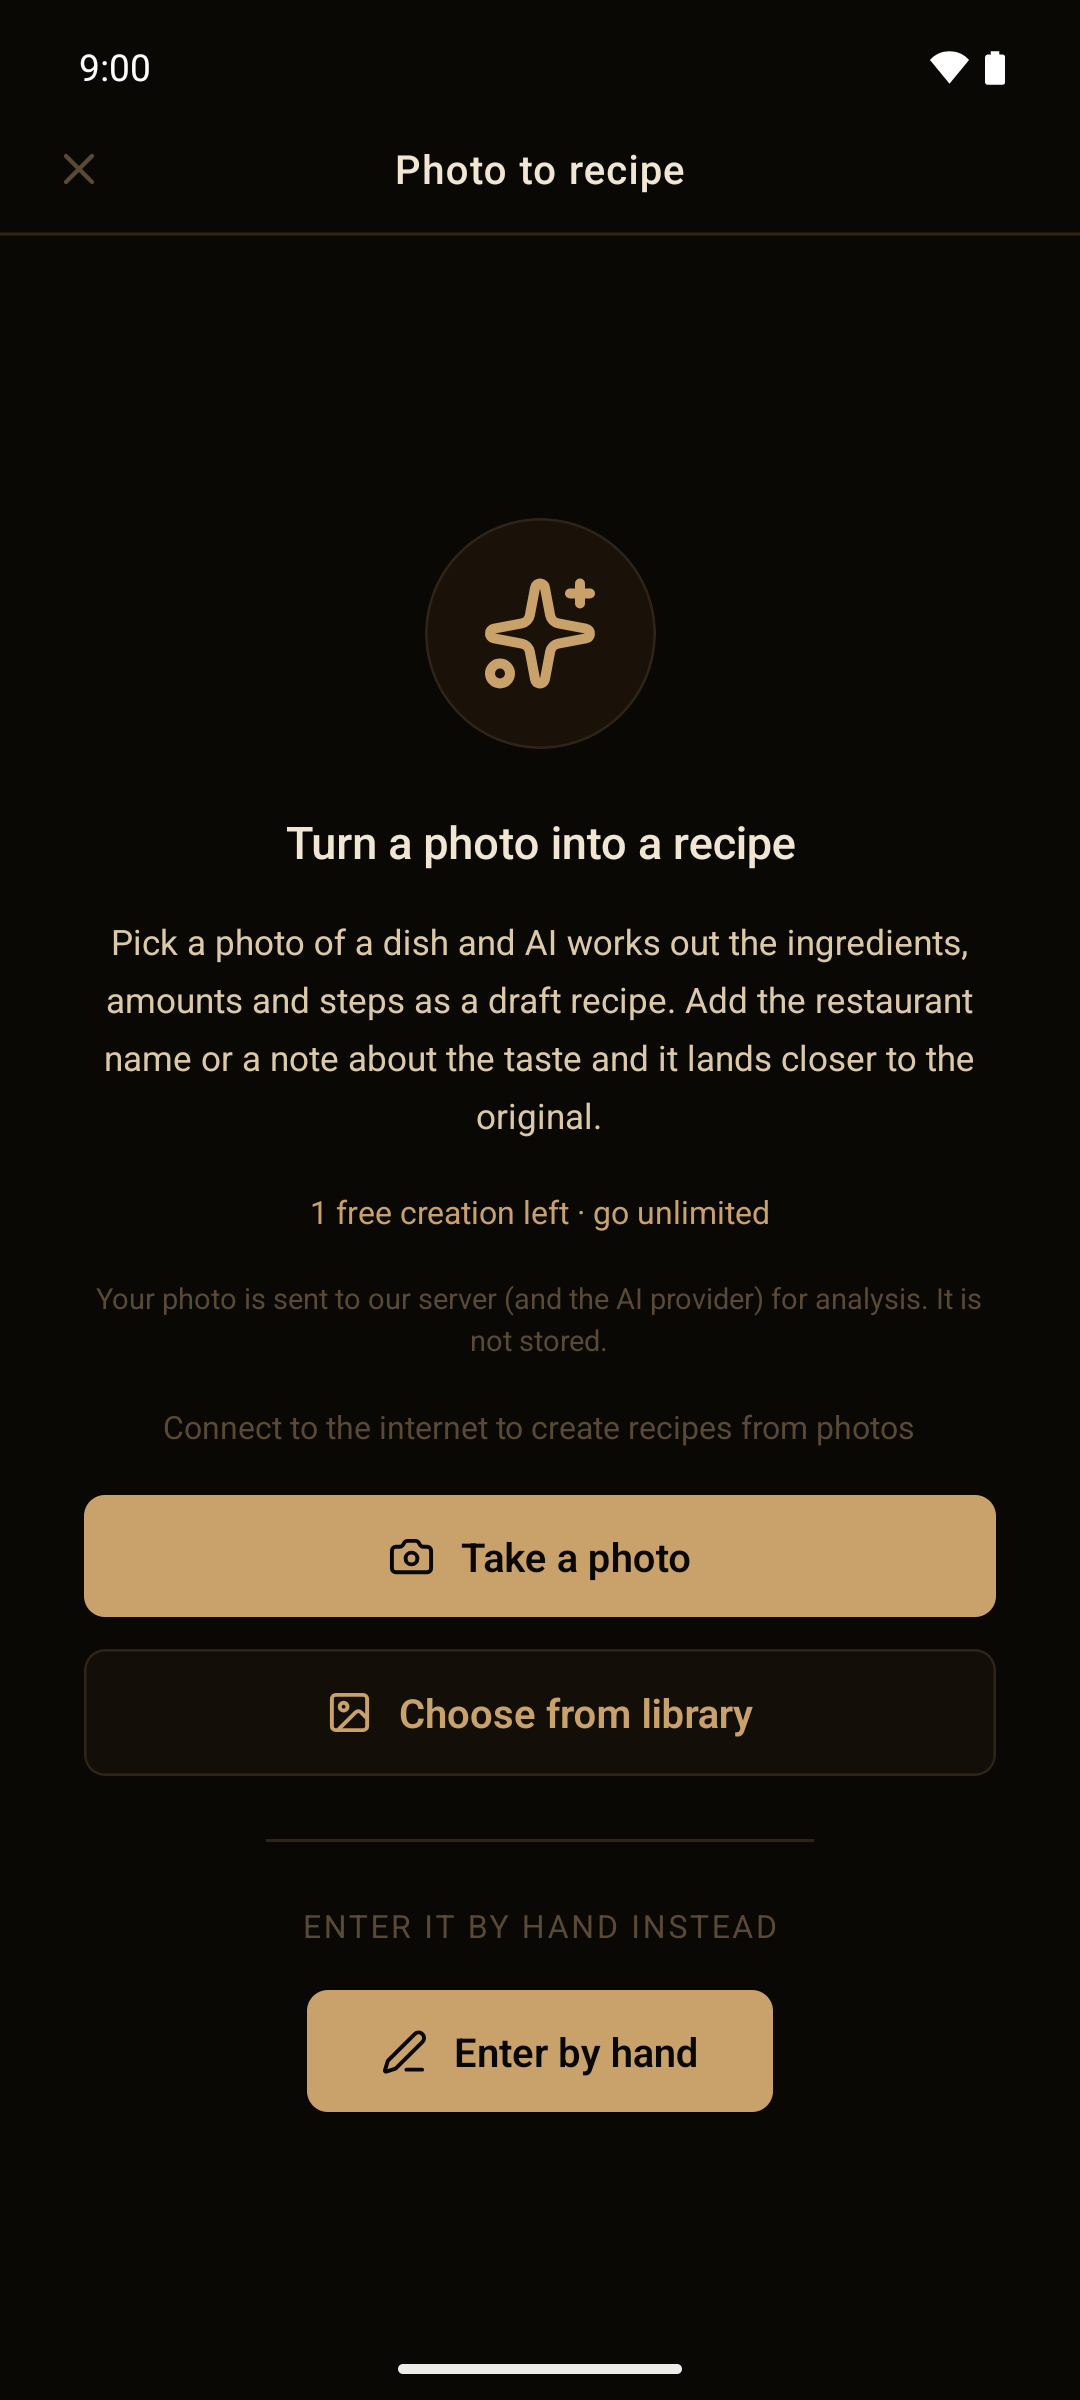
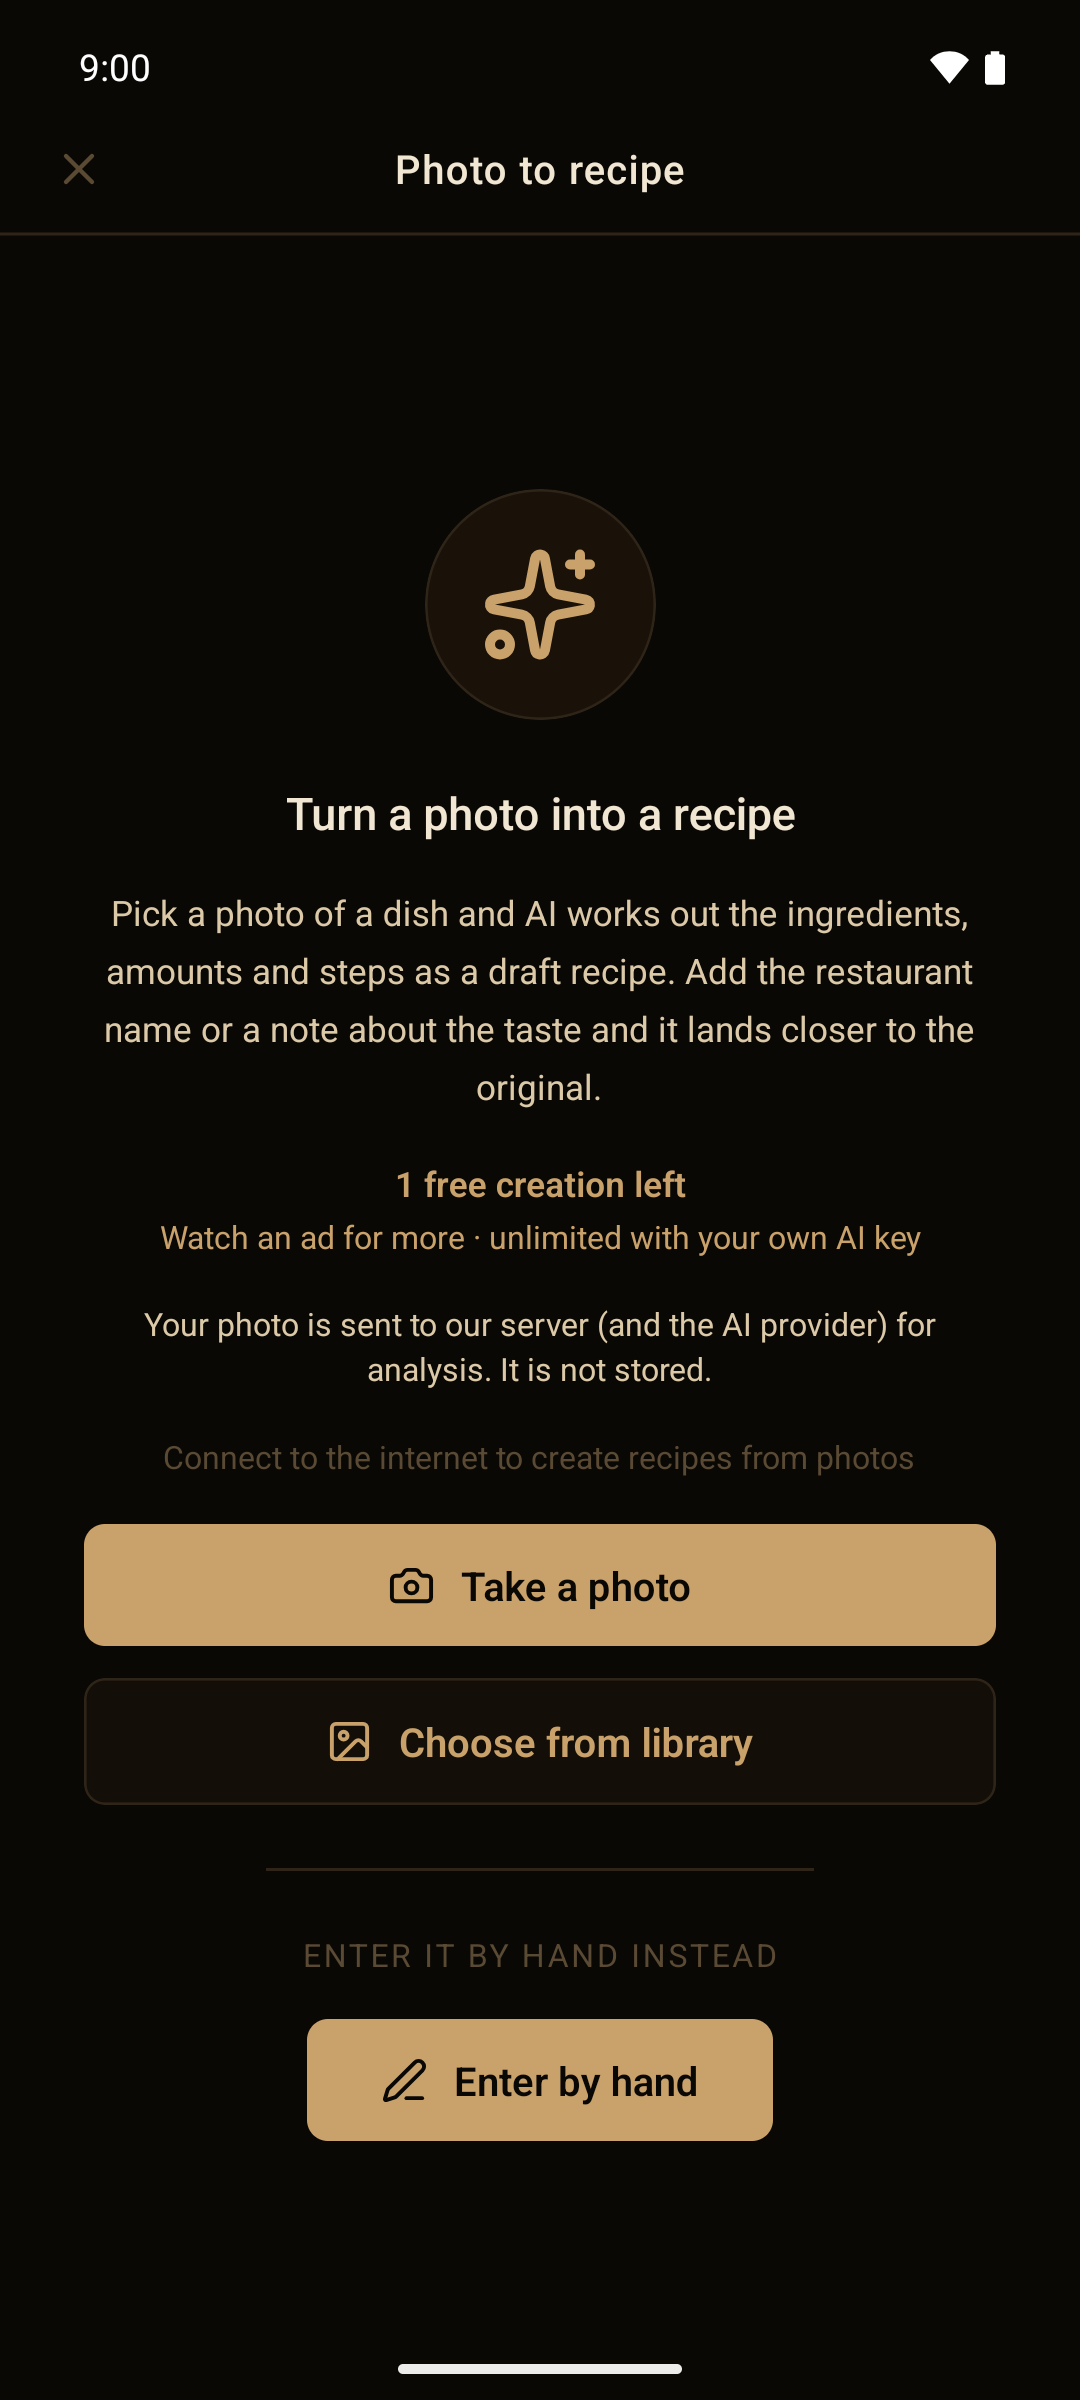
chore(store): 1.12.3 の変更が写る 3 枚（07 ja/en・08 en)を撮り直す (#251)
- 07: 無料枠の説明が 2 行（残数＋「使い切ったら広告を見て追加 ・ 自分のAIキーで使い放題」）
- 08 en: Reading 欄が消え Recipe name → Description 直結。AI は本物
  （Beef Carpaccio with Parmesan and Herb Dressing — ja 版と同じカルパッチョ写真・
  ヤードポンド法の分量で返ってきた）。撮影後に破棄、蔵書 13 品のまま
- 他の枚は 1.12.2 のまま — 1.12.3 の変更はこの 3 枚にしか写らない

**Play へのアップロードは 1.12.3 公開後**（EAS 枠切れで 9/1 以降）。
直った画面を見せながら直っていない版を配らない。

撮り直しで踏んだ罠: アプリ言語を「端末既定に戻す」とエミュレータでは英語になる。
ja の 07 が英語で撮れていた — ja を撮るときも --locale ja-JP を明示すること。

Changed region(s): [[0.0611, 0.2188, 0.9167, 0.9062]]

diff --git a/docs/store/google-play/phone-screenshots-en/README.md b/docs/store/google-play/phone-screenshots-en/README.md
@@ -15,7 +15,7 @@ node scripts/release/capture-store-screenshots.mjs \
   一度きりなので、**データを消した端末に入れてから**撮ること（`-wipe-data` でエミュを起動し直す）
 - 反映: `node scripts/release/update-play-screenshots.mjs --lang en-US`（下表の順に upload）
 
-## 現在の中身（2026-08-28 更新・1.12.2 / versionCode 10032）
+## 現在の中身（2026-08-28 更新・1.12.3 / versionCode 10033）
 
 **エミュレータ `daidoko_e2e_fresh_api36`（1080x2400）で撮っている。**
 
@@ -38,8 +38,12 @@ node scripts/release/capture-store-screenshots.mjs \
 - 全画面が英語シード（`seed.en.ts`）。**単位もヤード・ポンド法に換算されている**
   （0.38 oz / 1 tbsp / 4 cups）
 - ヒーロー（`10`）は同梱のシード写真（Creamy Scrambled Egg Toast）
-- `08` は**本番サーバー経由の実物の AI 下書き**（Fried Polenta with Creamy Sauce and Herbs）。
-  撮影後に破棄したので蔵書には残っていない（`01` / `02` はシードのみ）
+- `08` は**本番サーバー経由の実物の AI 下書き**（Beef Carpaccio with Parmesan and Herb
+  Dressing — ja 版と同じカルパッチョ写真）。撮影後に破棄したので蔵書には残っていない
+- **1.12.3 で `07` と `08` を差し替えた**: `07` は無料枠の説明が
+  「1 free creation left ＋ Watch an ad for more · unlimited with your own AI key」の
+  2 行になり、`08` は Reading 欄（ふりがなの直訳残り）が消えた
+  （ペルソナレビュー docs/reviews/persona/1.12.2.md の high #1・#9）
 
 > **日本語版（1080x2432・実機）とは解像度が違うが、寸法の検証は言語ごとなので問題ない。**
 > 日本語版は実際の料理写真を使っており、英語版はシードのみ — この差は意図的。
